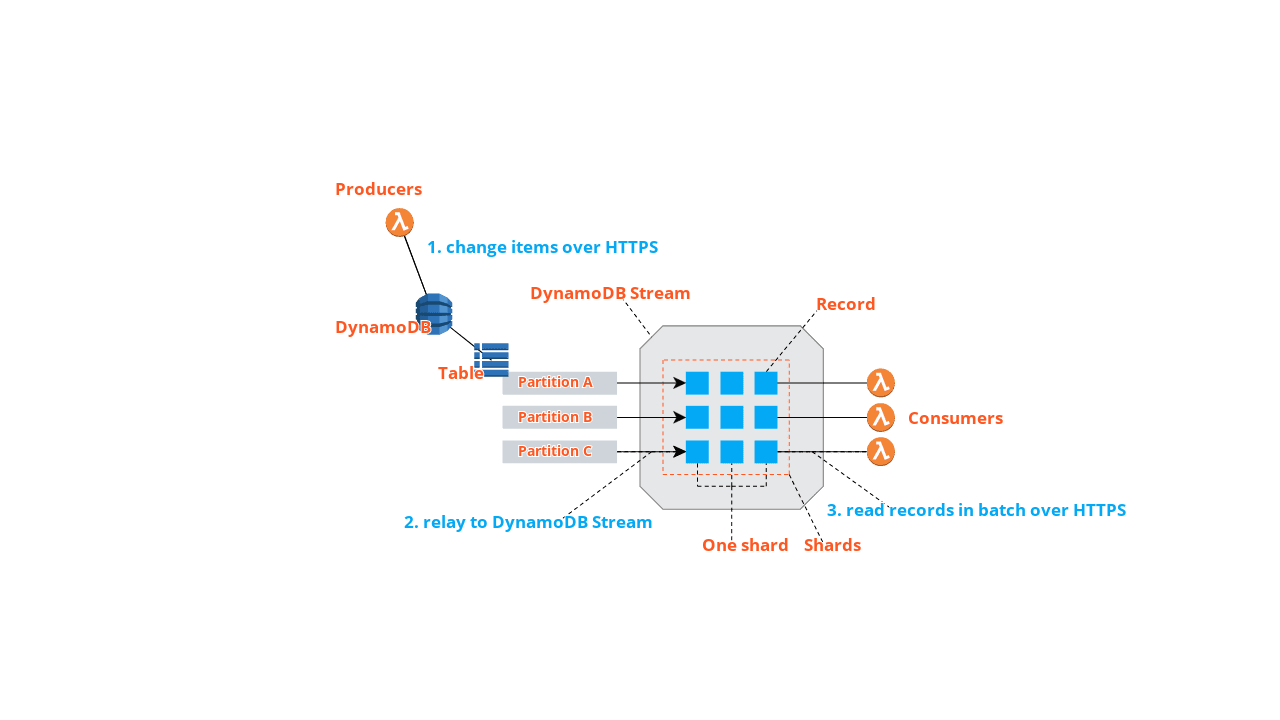
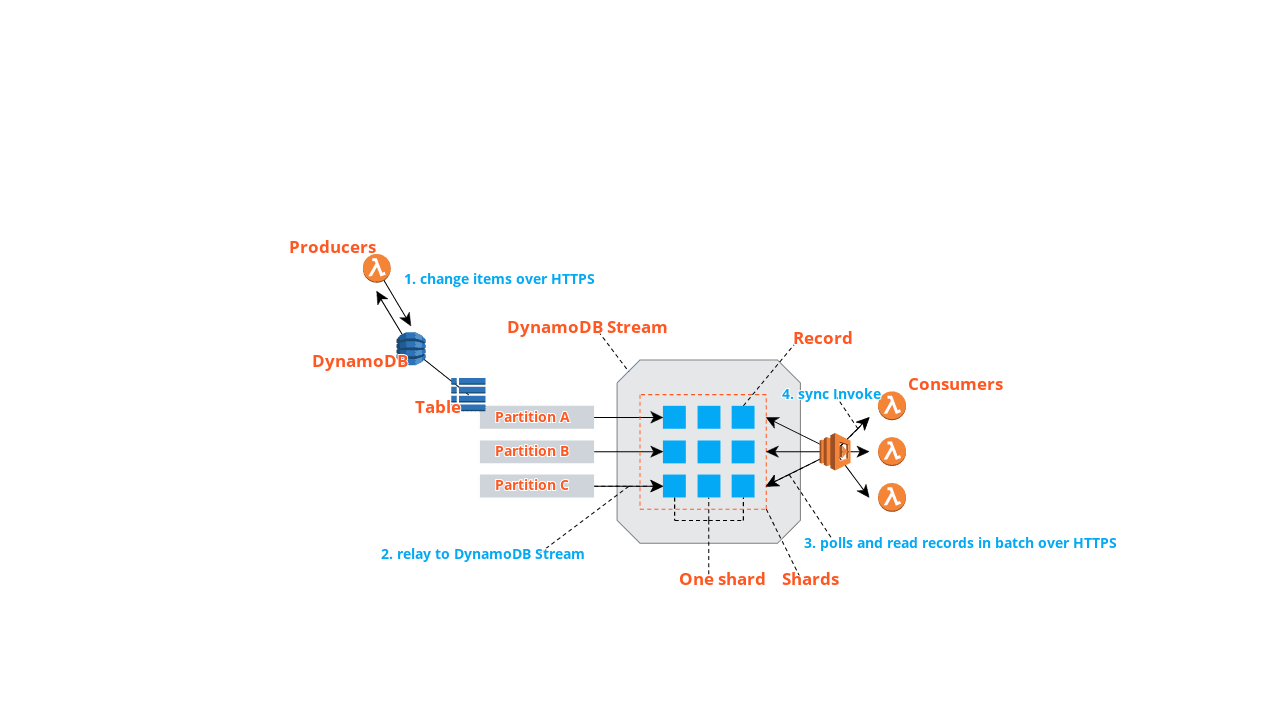
upddate

diff --git a/content/nosql/dynamodb-streams.md b/content/nosql/dynamodb-streams.md
@@ -33,8 +33,9 @@ DynamoDB Stream是DynamoDB服务所提供的一个功能，它需要结合Dynamo
 上图涉及到DynamoDB Stream的工作流程是：
 
 1. Producers将向表中修改数据，包括添加数据，修改已有数据，删除数据等。这些操作均是基于HTTPS协议来发起的。
-2. DynamoDB将修改之后的数据发送给DynamoDB Stream（向每个Shard中写入数据的速率最多是1MB/S），数据在DynamoDB中只能存放24小时，在这之后，数据将自动从DynamoDB Stream中移除。
-3. 每个Consumer从对应的Shard中批量读取记录，每次最多能读取1000条记录或者每秒最多能读取2MB数据，只要有一个条件满足，则读取数据的操作将停止并将读到的数据返回给Consumer。读取操作是基于HTTPS协议来发起的。
+2. DynamoDB将修改之后的数据写入内部的Transactions Log文件，DynamoDB Stream从该文件中读取更新之后的数据并存放24小时，在这之后，数据将自动从DynamoDB Stream中移除。
+3. Lambda平台向每一个Shard发送HTTPS请求并以poll的方式监听所有的Shards。
+4. Lambda平台从Shard中批量读取新数据（Records），并以Sync的方式启动一个Lambda Function实例，并将Records传入并执行该实例。如果结果返回成功，那么Lambda平台会继续读取下一批数据，失败则把当前的数据集传入该函数实例，并重新执行。
 
 上图涉及到DynamoDB Stream的内部逻辑以及外部交互：
 
@@ -108,7 +109,17 @@ Records[
 
 ## 基于DynamoDB Stream的设计模式
 
-DynamoDB Stream非常适合于事件驱动型架构（[event-driven architecture](https://en.wikipedia.org/wiki/Event-driven_architecture)）。
+DynamoDB Stream非常适合于事件驱动型架构（[event-driven architecture](https://en.wikipedia.org/wiki/Event-driven_architecture)）。事件驱动型架构的基本思想是：当一个事件发生了（比如用户注册或者购买了一件商品），该事件将被记录下来，并由事件响应者（比如全文搜索系统或分析系统等）处理这些事件。接下来，让我们通过一个例子来应用这种架构。
+
+假设，你是The New York Times报社，当前的用户量有100+万。用户希望能够快速打开热门的新闻，除此之外，还希望能够通过关键字来搜索相关文章。为了解决当下这些问题，让我们看一个比较简单的方案。
+
+* 一个简单的基于事件驱动型架构的例子
+
+根据以上描述，我们选择了DynamoDB，Lambda以及Elastic Search来解决问题，结果如下图所示：
+
+![](https://2cloudlab.com/images/blog/event-driven-architecture-dynamodb-stream.png)
+
+
 
 ## 参考
 
